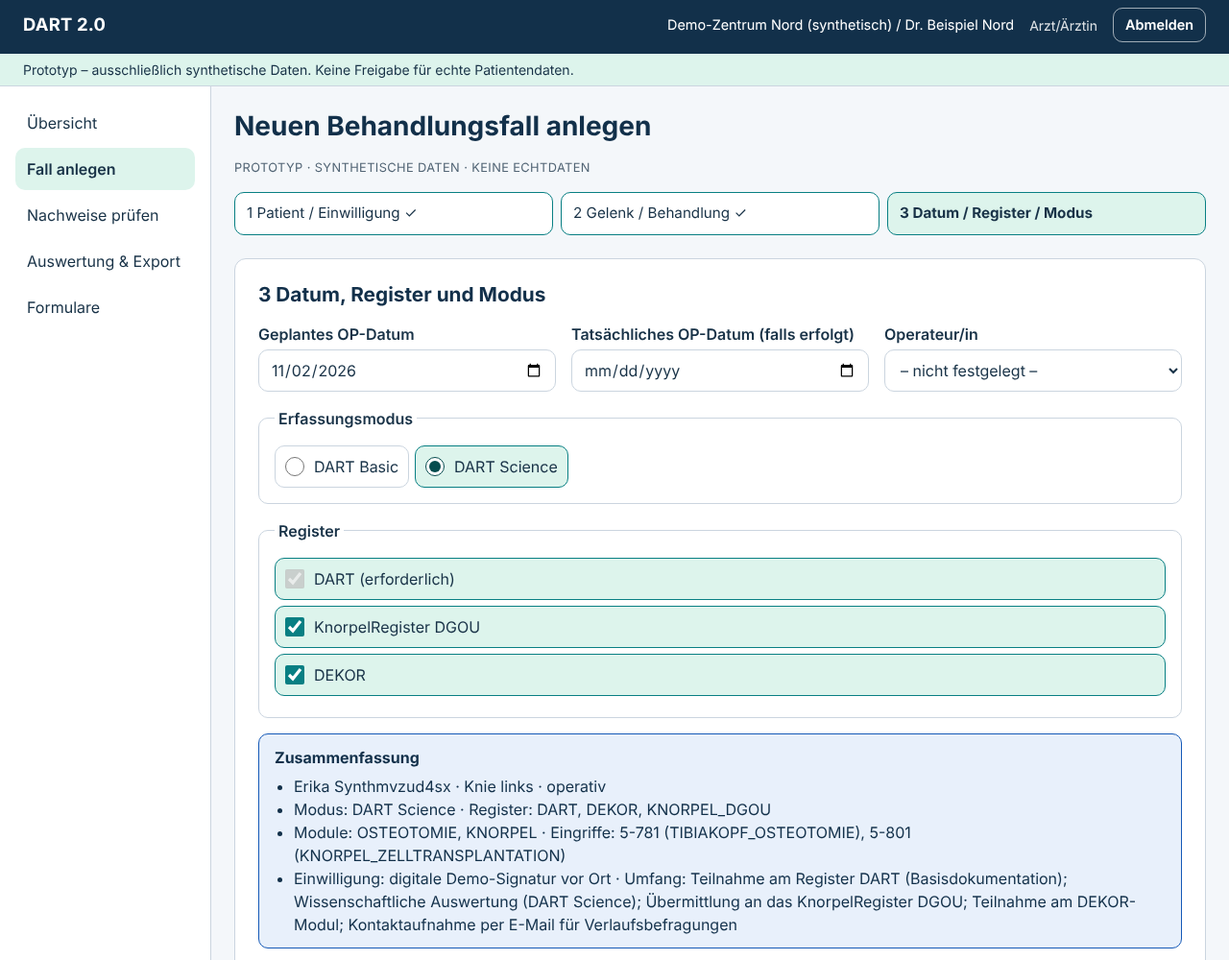
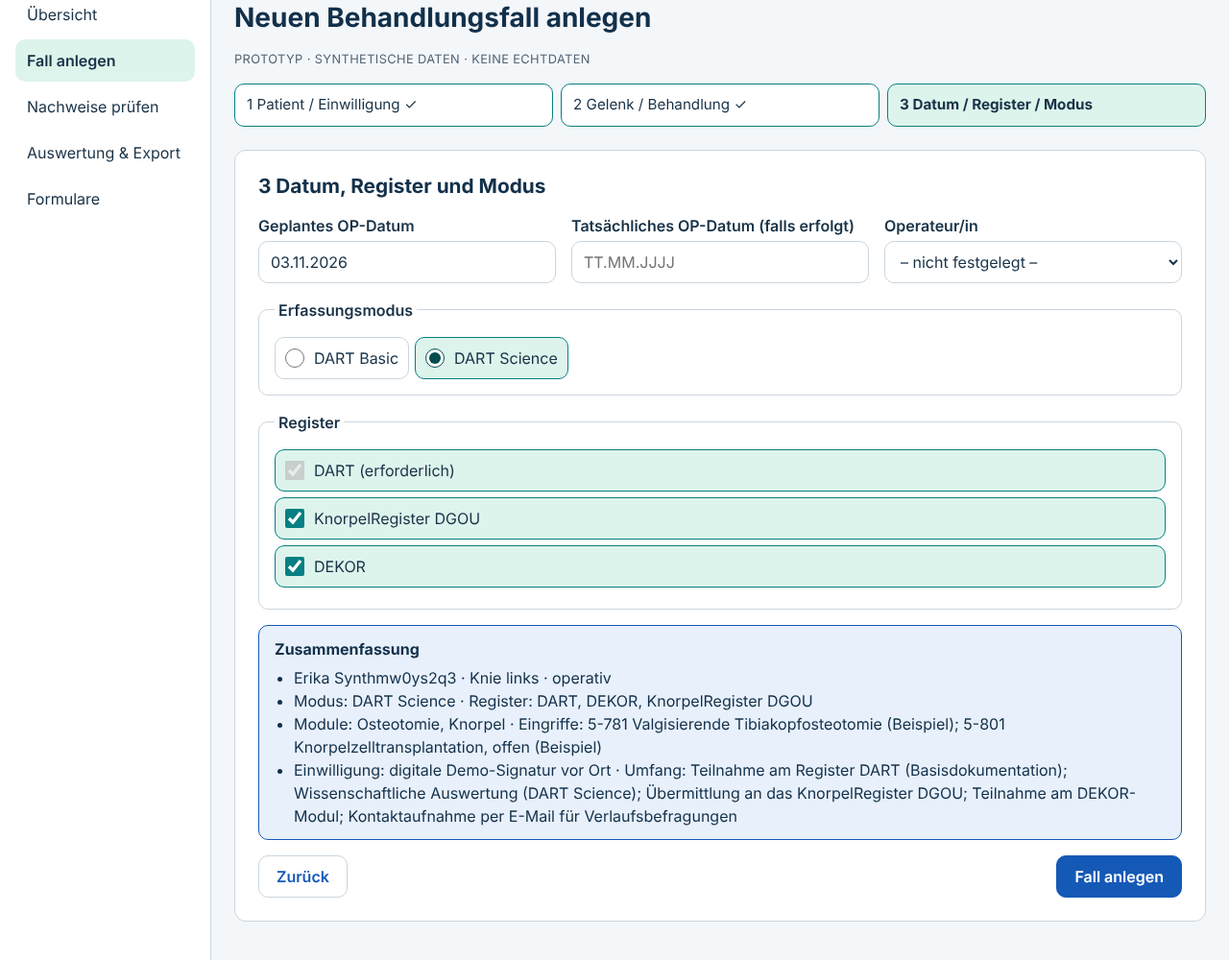
Deutsche Datumseingabe TT.MM.JJJJ unabhängig von der Browsersprache (R-20) (#4)
- parseGermanDate/formatGermanDate in @dart/forms (mit Tests)
- DateInput ersetzt alle 15 nativen Datumsfelder (Anlage, Fall, Bögen, Filter, Export, Prüfung)
- Zusammenfassung der Fallanlage mit lesbaren Modul- und Registernamen

Claude-Session: https://claude.ai/code/session_01YJ2RZ7scunhA4GL2KNmhYb

diff --git a/apps/web/app/(staff)/faelle/neu/page.tsx b/apps/web/app/(staff)/faelle/neu/page.tsx
@@ -5,9 +5,11 @@ import { api, ApiErr } from '@/lib/api';
 import { useMe } from '@/lib/session';
 import { stashOnsite } from '@/lib/onsite';
 import { Alert, ConceptNote, ErrorBox } from '@/components/ui';
+import { DateInput } from '@/components/DateInput';
 
 interface Ops { code: string; version: string; concept: string; label: string; module?: string }
-interface Catalog { modules: Array<{ code: string; label: string; suggestsRegister?: string }>; consentScopes: Record<string, string> }
+interface Catalog { modules: Array<{ code: string; label: string; suggestsRegister?: string }>; consentScopes: Record<string, string>; registers: Record<string, string> }
+const REG_SHORT: Record<string, string> = { DART: 'DART', KNORPEL_DGOU: 'KnorpelRegister DGOU', DEKOR: 'DEKOR' };
 interface Doc { id: string; title: string; version: string; scopes: string[] }
 
 function Wizard() {
@@ -153,7 +155,7 @@ function Wizard() {
                 <div className="field"><label htmlFor="fn">Vorname</label><input id="fn" type="text" autoComplete="off" value={v.firstName} aria-invalid={showErr && !v.firstName.trim()} onChange={(e) => set({ firstName: e.target.value })} /></div>
                 <div className="field"><label htmlFor="ln">Nachname</label><input id="ln" type="text" autoComplete="off" value={v.lastName} aria-invalid={showErr && !v.lastName.trim()} onChange={(e) => set({ lastName: e.target.value })} /></div>
                 <div className="field"><label htmlFor="em">E-Mail für Verlaufsbefragungen (optional)</label><input id="em" type="email" autoComplete="off" value={v.email} onChange={(e) => set({ email: e.target.value })} /><div className="help">Nur mit Einwilligung zur Kontaktaufnahme.</div></div>
-                <div className="field"><label htmlFor="bd">Geburtsdatum (optional)</label><input id="bd" type="date" value={v.birthDate} onChange={(e) => set({ birthDate: e.target.value })} /><div className="help">Nur erfassen, wenn fachlich erforderlich und freigegeben (offene Entscheidung).</div></div>
+                <div className="field"><label htmlFor="bd">Geburtsdatum (optional)</label><DateInput id="bd" value={v.birthDate} onChange={(iso) => set({ birthDate: iso })} /><div className="help">Nur erfassen, wenn fachlich erforderlich und freigegeben (offene Entscheidung).</div></div>
               </div>
               <fieldset>
                 <legend>Weg der Einwilligung</legend>
@@ -211,12 +213,12 @@ function Wizard() {
           <div className="grid grid-3">
             {v.treatmentType === 'operativ' ? (
               <>
-                <div className="field"><label htmlFor="pod">Geplantes OP-Datum</label><input id="pod" type="date" value={v.plannedOpDate} onChange={(e) => set({ plannedOpDate: e.target.value })} /></div>
-                <div className="field"><label htmlFor="aod">Tatsächliches OP-Datum (falls erfolgt)</label><input id="aod" type="date" value={v.actualOpDate} onChange={(e) => set({ actualOpDate: e.target.value })} /></div>
+                <div className="field"><label htmlFor="pod">Geplantes OP-Datum</label><DateInput id="pod" value={v.plannedOpDate} onChange={(iso) => set({ plannedOpDate: iso })} /></div>
+                <div className="field"><label htmlFor="aod">Tatsächliches OP-Datum (falls erfolgt)</label><DateInput id="aod" value={v.actualOpDate} onChange={(iso) => set({ actualOpDate: iso })} /></div>
                 <div className="field"><label htmlFor="sur">Operateur/in</label><select id="sur" value={v.surgeonUserId} onChange={(e) => set({ surgeonUserId: e.target.value })}><option value="">– nicht festgelegt –</option>{staff?.surgeons.map((s) => <option key={s.id} value={s.id}>{s.display_name}</option>)}</select></div>
               </>
             ) : (
-              <div className="field"><label htmlFor="csd">Beginn der konservativen Behandlung</label><input id="csd" type="date" value={v.conservativeStartDate} onChange={(e) => set({ conservativeStartDate: e.target.value })} /><div className="help">Eigenes Bezugsdatum – kein fiktives OP-Datum.</div></div>
+              <div className="field"><label htmlFor="csd">Beginn der konservativen Behandlung</label><DateInput id="csd" value={v.conservativeStartDate} onChange={(iso) => set({ conservativeStartDate: iso })} /><div className="help">Eigenes Bezugsdatum – kein fiktives OP-Datum.</div></div>
             )}
           </div>
           <fieldset>
@@ -237,8 +239,8 @@ function Wizard() {
             <strong>Zusammenfassung</strong>
             <ul>
               <li>{existingPatient ? 'Bestehende Person' : `${v.firstName} ${v.lastName}`} · Knie {v.side} · {v.treatmentType === 'operativ' ? 'operativ' : 'konservativ'}</li>
-              <li>Modus: {v.mode === 'science' ? 'DART Science' : 'DART Basic'} · Register: {v.registers.join(', ')}</li>
-              <li>Module: {v.modules.length ? v.modules.join(', ') : 'nur Basis'} · Eingriffe: {v.procedures.length ? v.procedures.map((p) => `${p.code} (${p.concept})`).join(', ') : 'keine'}</li>
+              <li>Modus: {v.mode === 'science' ? 'DART Science' : 'DART Basic'} · Register: {v.registers.map((r) => REG_SHORT[r] ?? r).join(', ')}</li>
+              <li>Module: {v.modules.length ? v.modules.map((m) => catalog?.modules.find((x) => x.code === m)?.label ?? m).join(', ') : 'nur Basis'} · Eingriffe: {v.procedures.length ? v.procedures.map((p) => `${p.code} ${p.label}`).join('; ') : 'keine'}</li>
               {!existingPatient && <li>Einwilligung: {v.consentMethod === 'digital_demo' ? 'digitale Demo-Signatur vor Ort' : 'Papierupload mit Sichtprüfung'} · Umfang: {[...new Set([...scopesNeeded, ...v.scopes])].map((s) => catalog?.consentScopes[s] ?? s).join('; ')}</li>}
             </ul>
           </div>

diff --git a/apps/web/app/(staff)/auswertung/page.tsx b/apps/web/app/(staff)/auswertung/page.tsx
@@ -4,6 +4,7 @@ import { api, ApiErr } from '@/lib/api';
 import { fmtDate, fmtDateTime } from '@/lib/format';
 import { can, useMe } from '@/lib/session';
 import { Alert, Badge, ConceptNote, ErrorBox, Loading } from '@/components/ui';
+import { DateInput } from '@/components/DateInput';
 
 const TP: Record<string, string> = { BL: 'Baseline', M6: '6 Monate', M12: '12 Monate', M24: '24 Monate', M36: '36 Monate', M60: '60 Monate', M120: '120 Monate' };
 const ST: Record<string, string> = { beantragt: 'beantragt', genehmigt: 'genehmigt', abgelehnt: 'abgelehnt', in_arbeit: 'in Arbeit', fertig: 'fertig', fehler: 'Fehler' };
@@ -43,8 +44,8 @@ export default function Reports() {
           <h2 id="h-rep">Zentrumsbericht</h2>
           <form className="grid grid-3" onSubmit={(e) => e.preventDefault()}>
             {me.centers.length > 1 && <div className="field"><label htmlFor="rc">Zentrum</label><select id="rc" value={f.centerId} onChange={(e) => setF({ ...f, centerId: e.target.value })}><option value="">Alle eigenen</option>{me.centers.map((c) => <option key={c.id} value={c.id}>{c.name}</option>)}</select></div>}
-            <div className="field"><label htmlFor="rf">Bezugsdatum von</label><input id="rf" type="date" value={f.from} onChange={(e) => setF({ ...f, from: e.target.value })} /></div>
-            <div className="field"><label htmlFor="rt">bis</label><input id="rt" type="date" value={f.to} onChange={(e) => setF({ ...f, to: e.target.value })} /></div>
+            <div className="field"><label htmlFor="rf">Bezugsdatum von</label><DateInput id="rf" value={f.from} onChange={(iso) => setF({ ...f, from: iso })} /></div>
+            <div className="field"><label htmlFor="rt">bis</label><DateInput id="rt" value={f.to} onChange={(iso) => setF({ ...f, to: iso })} /></div>
           </form>
           {!rep ? <Loading what="Bericht" /> : (
             <>
@@ -76,8 +77,8 @@ export default function Reports() {
             <div className="field" style={{ gridColumn: '1 / -1' }}><label htmlFor="ep">Zweck</label><textarea id="ep" value={req.purpose} onChange={(e) => setReq({ ...req, purpose: e.target.value })} /></div>
             <div className="field"><label htmlFor="es">Umfang</label><select id="es" value={req.scope} onChange={(e) => setReq({ ...req, scope: e.target.value })}><option value="basic">Basic (Registerumfang)</option><option value="science">Science (nur Science-Fälle mit Science-Einwilligung)</option></select></div>
             <fieldset><legend>Ebenen</legend>{['normalisiert', 'scores'].map((l) => <label key={l} className="choice"><input type="checkbox" checked={req.layers.includes(l)} onChange={(e) => setReq({ ...req, layers: e.target.checked ? [...req.layers, l] : req.layers.filter((x) => x !== l) })} />{l === 'normalisiert' ? 'Normalisierte Antworten' : 'Abgeleitete Scores'}</label>)}</fieldset>
-            <div className="field"><label htmlFor="ef">Zeitraum von</label><input id="ef" type="date" value={req.periodFrom} onChange={(e) => setReq({ ...req, periodFrom: e.target.value })} /></div>
-            <div className="field"><label htmlFor="et">bis</label><input id="et" type="date" value={req.periodTo} onChange={(e) => setReq({ ...req, periodTo: e.target.value })} /></div>
+            <div className="field"><label htmlFor="ef">Zeitraum von</label><DateInput id="ef" value={req.periodFrom} onChange={(iso) => setReq({ ...req, periodFrom: iso })} /></div>
+            <div className="field"><label htmlFor="et">bis</label><DateInput id="et" value={req.periodTo} onChange={(iso) => setReq({ ...req, periodTo: iso })} /></div>
             <div><button type="submit" disabled={req.purpose.trim().length < 10 || req.layers.length === 0}>Beantragen</button></div>
           </form>
         </section>

diff --git a/apps/web/components/DateInput.tsx b/apps/web/components/DateInput.tsx
@@ -1,0 +1,88 @@
+'use client';
+import { useEffect, useId, useState } from 'react';
+import { formatGermanDate, parseGermanDate } from '@dart/forms';
+
+interface Props {
+  id?: string;
+  /** ISO-Datum (JJJJ-MM-TT) oder leer */
+  value: string;
+  /** liefert ISO-Datum oder '' (leer bzw. noch unvollständig) */
+  onChange: (iso: string) => void;
+  min?: string;
+  max?: string;
+  readOnly?: boolean;
+  'aria-invalid'?: boolean;
+  'aria-describedby'?: string;
+  style?: React.CSSProperties;
+}
+
+/**
+ * Datumseingabe TT.MM.JJJJ unabhängig von der Browsersprache (Restliste R-20).
+ * Tastaturbedienbar, ohne Kalender-Popup; Fehler werden feldnah und für Screenreader angekündigt.
+ */
+export function DateInput({ id, value, onChange, min, max, readOnly, style, ...aria }: Props) {
+  const auto = useId();
+  const inputId = id ?? `d-${auto}`;
+  const [text, setText] = useState(formatGermanDate(value));
+  const [error, setError] = useState<string | null>(null);
+
+  // Externe Änderungen übernehmen, ohne eine laufende Eingabe zu überschreiben
+  useEffect(() => {
+    setText((t) => {
+      const p = parseGermanDate(t);
+      if (p === value || (p === null && value === '')) return t;
+      return formatGermanDate(value);
+    });
+  }, [value]);
+
+  function validate(t: string): string | null {
+    const p = parseGermanDate(t);
+    if (p === null) return 'Bitte ein gültiges Datum im Format TT.MM.JJJJ eingeben.';
+    if (p && min && p < min) return `Das Datum darf nicht vor dem ${formatGermanDate(min)} liegen.`;
+    if (p && max && p > max) return `Das Datum darf nicht nach dem ${formatGermanDate(max)} liegen.`;
+    return null;
+  }
+
+  const errId = `${inputId}-fehler`;
+  const describedBy = [aria['aria-describedby'], `${inputId}-format`, error ? errId : null].filter(Boolean).join(' ');
+  return (
+    <>
+      <input
+        id={inputId}
+        type="text"
+        inputMode="numeric"
+        autoComplete="off"
+        placeholder="TT.MM.JJJJ"
+        maxLength={10}
+        value={text}
+        readOnly={readOnly}
+        style={style}
+        aria-invalid={aria['aria-invalid'] || !!error}
+        aria-describedby={describedBy}
+        onChange={(e) => {
+          const t = e.target.value;
+          setText(t);
+          const p = parseGermanDate(t);
+          const err = p === null ? null : validate(t);
+          if (p !== null && !err) {
+            setError(null);
+            onChange(p);
+          } else if (p === '') {
+            setError(null);
+            onChange('');
+          }
+          if (err) setError(err);
+        }}
+        onBlur={() => {
+          const err = validate(text);
+          setError(err);
+          const p = parseGermanDate(text);
+          if (p) setText(formatGermanDate(p));
+          if (err) onChange('');
+        }}
+      />
+      <span id={`${inputId}-format`} className="sr-only">Format TT.MM.JJJJ</span>
+      {error && <div id={errId} className="field-error" role="alert">{error}</div>}
+    </>
+  );
+}

diff --git a/apps/web/app/(staff)/uebersicht/page.tsx b/apps/web/app/(staff)/uebersicht/page.tsx
@@ -5,6 +5,7 @@ import { api, ApiErr } from '@/lib/api';
 import { CASE_STATUS_LABEL, fmtDate, JOINT_LABEL } from '@/lib/format';
 import { can, useMe } from '@/lib/session';
 import { Alert, Badge, ConceptNote, ConsentBadge, ErrorBox, Loading } from '@/components/ui';
+import { DateInput } from '@/components/DateInput';
 
 interface Tasks { stichtag: string; patients: number; cases: number; consentMissing: number; evidenceToReview: number; physicianFormsOpen: number; followUpsDue: number; overdue: number }
 interface CaseItem { id: string; case_no: string; center_name: string; pseudonym: string; joint: string; side: string; treatment_type: string; planned_op_date: string | null; actual_op_date: string | null; conservative_start_date: string | null; status: string; mode: string; registers: string[]; modules: string[]; open_physician_forms: number; consent_status: string | null; surgeon_name: string | null }
@@ -99,8 +100,8 @@ export default function Dashboard() {
           <div className="field"><label htmlFor="m">Modus</label><select id="m" value={f.mode} onChange={(e) => set({ mode: e.target.value })}><option value="">Alle</option><option value="basic">DART Basic</option><option value="science">DART Science</option></select></div>
           <div className="field"><label htmlFor="mo">Modul/Eingriff</label><select id="mo" value={f.module} onChange={(e) => set({ module: e.target.value })}><option value="">Alle</option>{Object.entries(MODULE_LABEL).map(([k, v]) => <option key={k} value={k}>{v}</option>)}</select></div>
           <div className="field"><label htmlFor="s">Status</label><select id="s" value={f.status} onChange={(e) => set({ status: e.target.value })}><option value="">Alle</option><option value="consent_ausstehend">Einwilligung ausstehend</option><option value="aktiv">Aktiv</option><option value="arztbogen_offen">Arztbogen offen</option><option value="ueberfaellig">Befragung überfällig</option><option value="gesperrt">Gesperrt</option></select></div>
-          <div className="field"><label htmlFor="from">Bezugsdatum von</label><input id="from" type="date" value={f.from} onChange={(e) => set({ from: e.target.value })} /></div>
-          <div className="field"><label htmlFor="to">Bezugsdatum bis</label><input id="to" type="date" value={f.to} onChange={(e) => set({ to: e.target.value })} /></div>
+          <div className="field"><label htmlFor="from">Bezugsdatum von</label><DateInput id="from" value={f.from} onChange={(iso) => set({ from: iso })} /></div>
+          <div className="field"><label htmlFor="to">Bezugsdatum bis</label><DateInput id="to" value={f.to} onChange={(iso) => set({ to: iso })} /></div>
           <div className="field" style={{ alignSelf: 'end' }}><button type="button" className="btn-ghost" onClick={() => setF({ q: '', centerId: '', surgeonId: '', register: '', mode: '', status: '', module: '', from: '', to: '', page: 1 })}>Filter zurücksetzen</button></div>
         </form>
       </section>

diff --git a/apps/web/app/(staff)/faelle/[id]/page.tsx b/apps/web/app/(staff)/faelle/[id]/page.tsx
@@ -6,6 +6,7 @@ import { api, ApiErr, fileToBase64 } from '@/lib/api';
 import { CASE_STATUS_LABEL, fmtDate, fmtDateTime, JOINT_LABEL, OUTBOX_STATUS_LABEL, RESPONSE_STATUS_LABEL } from '@/lib/format';
 import { Onsite, takeOnsite } from '@/lib/onsite';
 import { Alert, Badge, ConceptNote, ConsentBadge, ErrorBox, EventBadge, Loading } from '@/components/ui';
+import { DateInput } from '@/components/DateInput';
 
 const TP: Record<string, string> = { BL: 'Baseline', M6: '6 Monate', M12: '12 Monate', M24: '24 Monate', M36: '36 Monate', M60: '60 Monate', M120: '120 Monate', FU3: 'FU3 (historisch)' };
 const MOD: Record<string, string> = { BASIS: 'Basis', MENISKUS: 'Meniskus', KREUZBAND: 'VKB/HKB', PATELLA: 'Patella', KNORPEL: 'Knorpel', OSTEOTOMIE: 'Osteotomie', ENDOPROTHETIK: 'Endoprothetik', SYNOVITIS: 'Synovitis', PATELLASEHNE_KONS: 'Patellasehne kons.' };
@@ -254,10 +255,10 @@ function DateCorrection({ c, onDone, onError }: any) {
     <form className="grid" style={{ marginTop: 8 }} onSubmit={(e) => { e.preventDefault(); api(`/cases/${c.id}/dates`, { body: { plannedOpDate: v.plannedOpDate || null, actualOpDate: v.actualOpDate || null, conservativeStartDate: v.conservativeStartDate || null, reason: v.reason, revision: c.revision } }).then(onDone).catch(onError); }}>
       {c.treatment_type === 'operativ' ? (
         <>
-          <div className="field"><label htmlFor="dc1">Geplantes OP-Datum</label><input id="dc1" type="date" value={v.plannedOpDate} onChange={(e) => setV({ ...v, plannedOpDate: e.target.value })} /></div>
-          <div className="field"><label htmlFor="dc2">Tatsächliches OP-Datum</label><input id="dc2" type="date" value={v.actualOpDate} onChange={(e) => setV({ ...v, actualOpDate: e.target.value })} /></div>
+          <div className="field"><label htmlFor="dc1">Geplantes OP-Datum</label><DateInput id="dc1" value={v.plannedOpDate} onChange={(iso) => setV({ ...v, plannedOpDate: iso })} /></div>
+          <div className="field"><label htmlFor="dc2">Tatsächliches OP-Datum</label><DateInput id="dc2" value={v.actualOpDate} onChange={(iso) => setV({ ...v, actualOpDate: iso })} /></div>
         </>
-      ) : <div className="field"><label htmlFor="dc3">Behandlungsbeginn</label><input id="dc3" type="date" value={v.conservativeStartDate} onChange={(e) => setV({ ...v, conservativeStartDate: e.target.value })} /></div>}
+      ) : <div className="field"><label htmlFor="dc3">Behandlungsbeginn</label><DateInput id="dc3" value={v.conservativeStartDate} onChange={(iso) => setV({ ...v, conservativeStartDate: iso })} /></div>}
       <div className="field"><label htmlFor="dc4">Begründung (Pflicht)</label><input id="dc4" type="text" value={v.reason} onChange={(e) => setV({ ...v, reason: e.target.value })} /></div>
       <button type="submit" className="btn-secondary" disabled={v.reason.trim().length < 5}>Korrektur speichern</button>
     </form>

diff --git a/apps/web/components/FormRenderer.tsx b/apps/web/components/FormRenderer.tsx
@@ -2,6 +2,7 @@
 import { useEffect, useId, useState } from 'react';
 import { answerKey, AnswerValue, FormEvaluation, FormItem, FormSchema, Issue, MISSING_CODES, MissingCode, ResponseData, YESNO_CODES } from '@dart/forms';
 import { fmtNumber, parseGermanNumber } from '@/lib/format';
+import { DateInput } from './DateInput';
 
 interface Props {
   schema: FormSchema;
@@ -126,7 +127,7 @@ function ItemField({ item, k, a, ev, readOnly, showRequired, onChange }: { item:
   } else {
     let input: React.ReactNode;
     if (item.type === 'number') input = <NumberInput id={id} value={typeof val === 'number' ? val : undefined} readOnly={disabled} invalid={errorList.length > 0} describedBy={describedBy} decimals={item.decimals} onCommit={(n) => set(n === null ? null : { value: n })} />;
-    else if (item.type === 'date') input = <input id={id} type="date" value={typeof val === 'string' ? val : ''} readOnly={disabled} aria-invalid={errorList.length > 0} aria-describedby={describedBy} onChange={(e) => set(e.target.value ? { value: e.target.value } : null)} />;
+    else if (item.type === 'date') input = <DateInput id={id} value={typeof val === 'string' ? val : ''} readOnly={disabled} aria-invalid={errorList.length > 0} aria-describedby={describedBy} onChange={(iso) => set(iso ? { value: iso } : null)} />;
     else input = <textarea id={id} value={typeof val === 'string' ? val : ''} readOnly={disabled} rows={2} aria-invalid={errorList.length > 0} aria-describedby={describedBy} onChange={(e) => set(e.target.value ? { value: e.target.value } : null)} />;
     control = (
       <>

diff --git a/apps/web/app/(staff)/nachweise/page.tsx b/apps/web/app/(staff)/nachweise/page.tsx
@@ -4,6 +4,7 @@ import { useCallback, useEffect, useState } from 'react';
 import { api, ApiErr } from '@/lib/api';
 import { fmtDateTime, todayIso } from '@/lib/format';
 import { Alert, ConceptNote, ErrorBox, Loading } from '@/components/ui';
+import { DateInput } from '@/components/DateInput';
 
 const CHECKS: Array<[string, string]> = [
   ['richtige_person', 'Dokument gehört zur richtigen Person'],
@@ -43,7 +44,7 @@ function Review({ item, onDone, onError }: { item: any; onDone: (m: string) => v
         {CHECKS.map(([k, l]) => <label key={k} className="choice"><input type="checkbox" checked={!!chk[k]} onChange={(e) => setChk({ ...chk, [k]: e.target.checked })} />{l}</label>)}
       </fieldset>
       <div className="grid grid-2">
-        <div className="field"><label htmlFor={`sd-${item.id}`}>Unterschriftsdatum laut Dokument</label><input id={`sd-${item.id}`} type="date" max={todayIso()} value={signedDate} onChange={(e) => setSignedDate(e.target.value)} /></div>
+        <div className="field"><label htmlFor={`sd-${item.id}`}>Unterschriftsdatum laut Dokument</label><DateInput id={`sd-${item.id}`} max={todayIso()} value={signedDate} onChange={(iso) => setSignedDate(iso)} /></div>
         <div className="field"><label htmlFor={`rr-${item.id}`}>Ablehnungsgrund (bei Ablehnung)</label><input id={`rr-${item.id}`} type="text" value={reason} onChange={(e) => setReason(e.target.value)} /></div>
       </div>
       <div className="row">

diff --git a/packages/forms/src/dates.ts b/packages/forms/src/dates.ts
@@ -1,0 +1,26 @@
+import { isValidIsoDate } from './engine';
+
+/**
+ * Deutsche Datumseingabe (TT.MM.JJJJ) unabhängig von der Browsersprache.
+ * Akzeptiert: 1.2.2026, 01.02.2026, 01022026, 2026-02-01 (Einfügen). Zweistellige Jahre werden abgelehnt.
+ * Ergebnis: ISO-Datum, '' für leer, oder null für ungültig/unvollständig.
+ */
+export function parseGermanDate(input: string): string | '' | null {
+  const s = input.trim();
+  if (!s) return '';
+  let d: number, m: number, y: number;
+  let match = /^(\d{1,2})\.(\d{1,2})\.(\d{4})$/.exec(s);
+  if (match) [d, m, y] = [Number(match[1]), Number(match[2]), Number(match[3])];
+  else if ((match = /^(\d{2})(\d{2})(\d{4})$/.exec(s))) [d, m, y] = [Number(match[1]), Number(match[2]), Number(match[3])];
+  else if ((match = /^(\d{4})-(\d{2})-(\d{2})$/.exec(s))) [y, m, d] = [Number(match[1]), Number(match[2]), Number(match[3])];
+  else return null;
+  const iso = `${String(y).padStart(4, '0')}-${String(m).padStart(2, '0')}-${String(d).padStart(2, '0')}`;
+  return isValidIsoDate(iso) ? iso : null;
+}
+
+/** ISO-Datum → TT.MM.JJJJ (ohne Zeitzonenverschiebung). */
+export function formatGermanDate(iso: string | null | undefined): string {
+  if (!iso) return '';
+  const m = /^(\d{4})-(\d{2})-(\d{2})/.exec(iso);
+  return m ? `${m[3]}.${m[2]}.${m[1]}` : '';
+}

diff --git a/tests/e2e/prototyp.spec.ts b/tests/e2e/prototyp.spec.ts
@@ -82,7 +82,16 @@ test.describe.serial('DART 2.0 – vertikale Strecke', () => {
     await expect(page.getByLabel('Osteotomie', { exact: true })).toBeChecked();
     await page.screenshot({ path: SHOT('03-anlage-schritt2') });
     await page.getByRole('button', { name: 'Weiter' }).click();
-    await page.getByLabel('Geplantes OP-Datum').fill(new Intl.DateTimeFormat('en-CA', { timeZone: 'Europe/Berlin' }).format(new Date()));
+    // Deutsche Datumseingabe unabhängig von der Browsersprache (R-20)
+    const op = page.getByLabel('Geplantes OP-Datum');
+    await expect(op).toHaveAttribute('placeholder', 'TT.MM.JJJJ');
+    await op.fill('31.02.2026');
+    await op.blur();
+    await expect(page.getByText('Bitte ein gültiges Datum im Format TT.MM.JJJJ eingeben.')).toBeVisible();
+    const [y, m, d] = new Intl.DateTimeFormat('en-CA', { timeZone: 'Europe/Berlin' }).format(new Date()).split('-');
+    await op.fill(`${d}.${m}.${y}`);
+    await op.blur();
+    await expect(page.getByText('Bitte ein gültiges Datum im Format TT.MM.JJJJ eingeben.')).toHaveCount(0);
     await page.getByLabel('DART Science').check();
     await expect(page.getByLabel('KnorpelRegister DGOU')).toBeChecked();
     await expect(page.getByLabel('DEKOR', { exact: true })).toBeChecked();

diff --git a/packages/forms/src/forms.test.ts b/packages/forms/src/forms.test.ts
@@ -136,3 +136,16 @@ describe('Prüfregeln dürfen das eigene Feld referenzieren', () => {
     expect(validateSchema(s).some((e) => e.message.includes('sich selbst'))).toBe(true);
   });
 });
+
+import { formatGermanDate, parseGermanDate } from './index';
+describe('Deutsche Datumseingabe', () => {
+  it.each([
+    ['01.02.2026', '2026-02-01'], ['1.2.2026', '2026-02-01'], ['01022026', '2026-02-01'], ['2026-02-01', '2026-02-01'],
+    ['29.02.2028', '2028-02-29'], [' 31.12.2026 ', '2026-12-31'], ['', ''],
+  ])('%s → %s', (i, o) => expect(parseGermanDate(i)).toBe(o));
+  it.each(['29.02.2026', '31.04.2026', '1.2.26', '01.13.2026', '00.01.2026', '12/01/2026', 'morgen'])('%s ist ungültig', (i) => expect(parseGermanDate(i)).toBeNull());
+  it('formatiert ISO als TT.MM.JJJJ', () => {
+    expect(formatGermanDate('2026-02-01')).toBe('01.02.2026');
+    expect(formatGermanDate(null)).toBe('');
+  });
+});

diff --git a/packages/forms/src/index.ts b/packages/forms/src/index.ts
@@ -2,3 +2,4 @@ export * from './types';
 export * from './rules';
 export * from './scores';
 export * from './engine';
+export * from './dates';

diff --git a/docs/restliste.md b/docs/restliste.md
@@ -23,7 +23,7 @@ P1 = vor Pilot-MVP erforderlich, P2 = Ausbau. Fachliche Freigaben stehen in `doc
 | R-17 | P1 | Migration | Originalexporte verschlüsselt ablegen, freigegebene Mappings (Katalog V05 liegt vor), zwei Probeläufe, Cutover-Plan (E-11, E-12) |
 | R-18 | P1 | Barrierefreiheit | Vollständiger WCAG-2.2-AA-Audit inkl. Screenreader (NVDA/VoiceOver) |
 | R-19 | P1 | Betroffenenrechte | Bearbeitungsoberfläche für Auskunft/Berichtigung/Einschränkung/Löschung mit Fristen |
-| R-20 | P1 | Datumseingabe | Eigene deutschsprachige Datumseingabe (TT.MM.JJJJ) unabhängig von der Browsersprache |
+| R-20 | – | Datumseingabe | **Erledigt** (03.11.2026): `DateInput` mit TT.MM.JJJJ, Prüfung auf Kalendergültigkeit und Grenzen, feldnahe Fehler |
 | R-21 | P2 | Weitere Gelenke | Schulter, Hüfte, Sprunggelenk (Datenmodell vorbereitet, in der Anlage deaktiviert) |
 | R-22 | P1 | CI | GitHub-Workflow ist angelegt, in dieser Umgebung aber nicht ausgeführt; im Ziel-Repository aktivieren und prüfen |
 | R-23 | P1 | Penetrationstest | Externer Test vor Produktivfreigabe |
